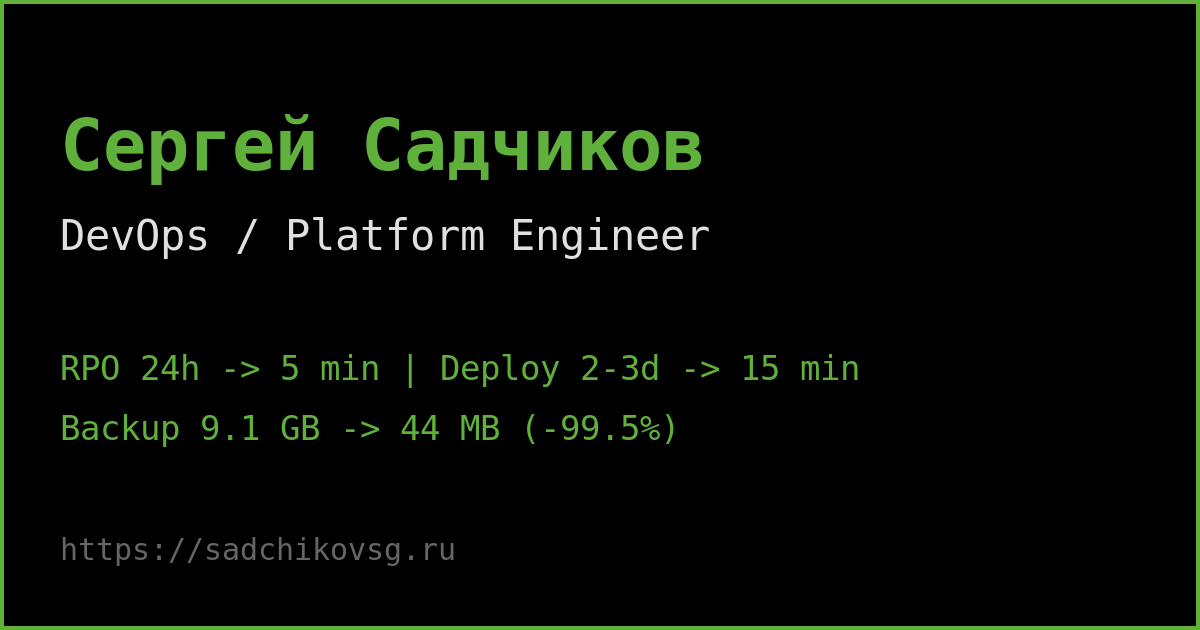
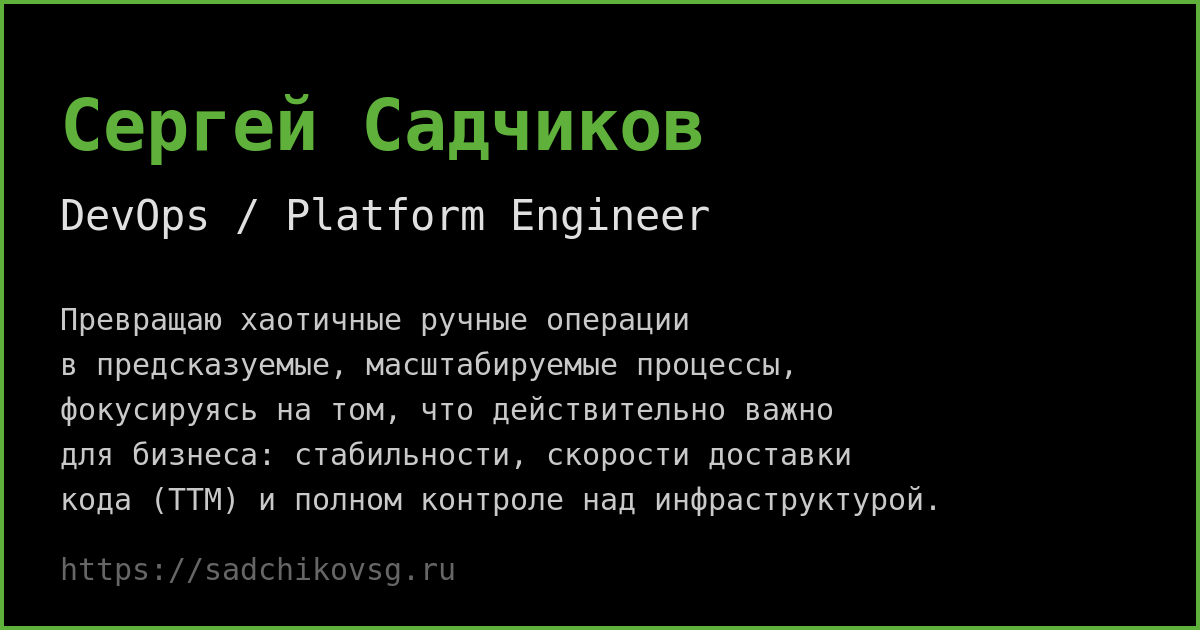
style: OG preview - replace raw metrics with brand slogan

diff --git a/_includes/head_custom.html b/_includes/head_custom.html
@@ -78,14 +78,14 @@
 <meta property="og:url" content="https://sadchikovsg.ru/">
 <meta property="og:site_name" content="Сергей Садчиков | DevOps Engineer">
 <meta property="og:title" content="Сергей Садчиков — DevOps/Platform Engineer">
-<meta property="og:description" content="Портфолио: 4 детальных кейса (Kafka HA, Terraform+Ansible, DevSecOps, Restic). RPO 24ч → 5 мин, деплой 2-3 дня → 15 минут, бэкап 9.1 ГБ → 44 МБ.">
+<meta property="og:description" content="Превращаю хаотичные ручные операции в предсказуемые, масштабируемые процессы, фокусируясь на том, что действительно важно для бизнеса: стабильности, скорости доставки кода (TTM) и полном контроле над инфраструктурой.">
 <meta property="og:image" content="https://sadchikovsg.ru/assets/og-image.png">
 <meta property="og:image:width" content="1200">
 <meta property="og:image:height" content="630">
 <meta property="og:locale" content="ru_RU">
 <meta name="twitter:card" content="summary_large_image">
 <meta name="twitter:title" content="Сергей Садчиков — DevOps/Platform Engineer">
-<meta name="twitter:description" content="4 детальных DevOps-кейса с метриками и архитектурными схемами.">
+<meta name="twitter:description" content="Превращаю хаотичные ручные операции в предсказуемые, масштабируемые процессы. DevOps/Platform Engineer: стабильность, TTM, полный контроль над инфраструктурой.">
 <meta name="twitter:image" content="https://sadchikovsg.ru/assets/og-image.png">
 
 <style>
